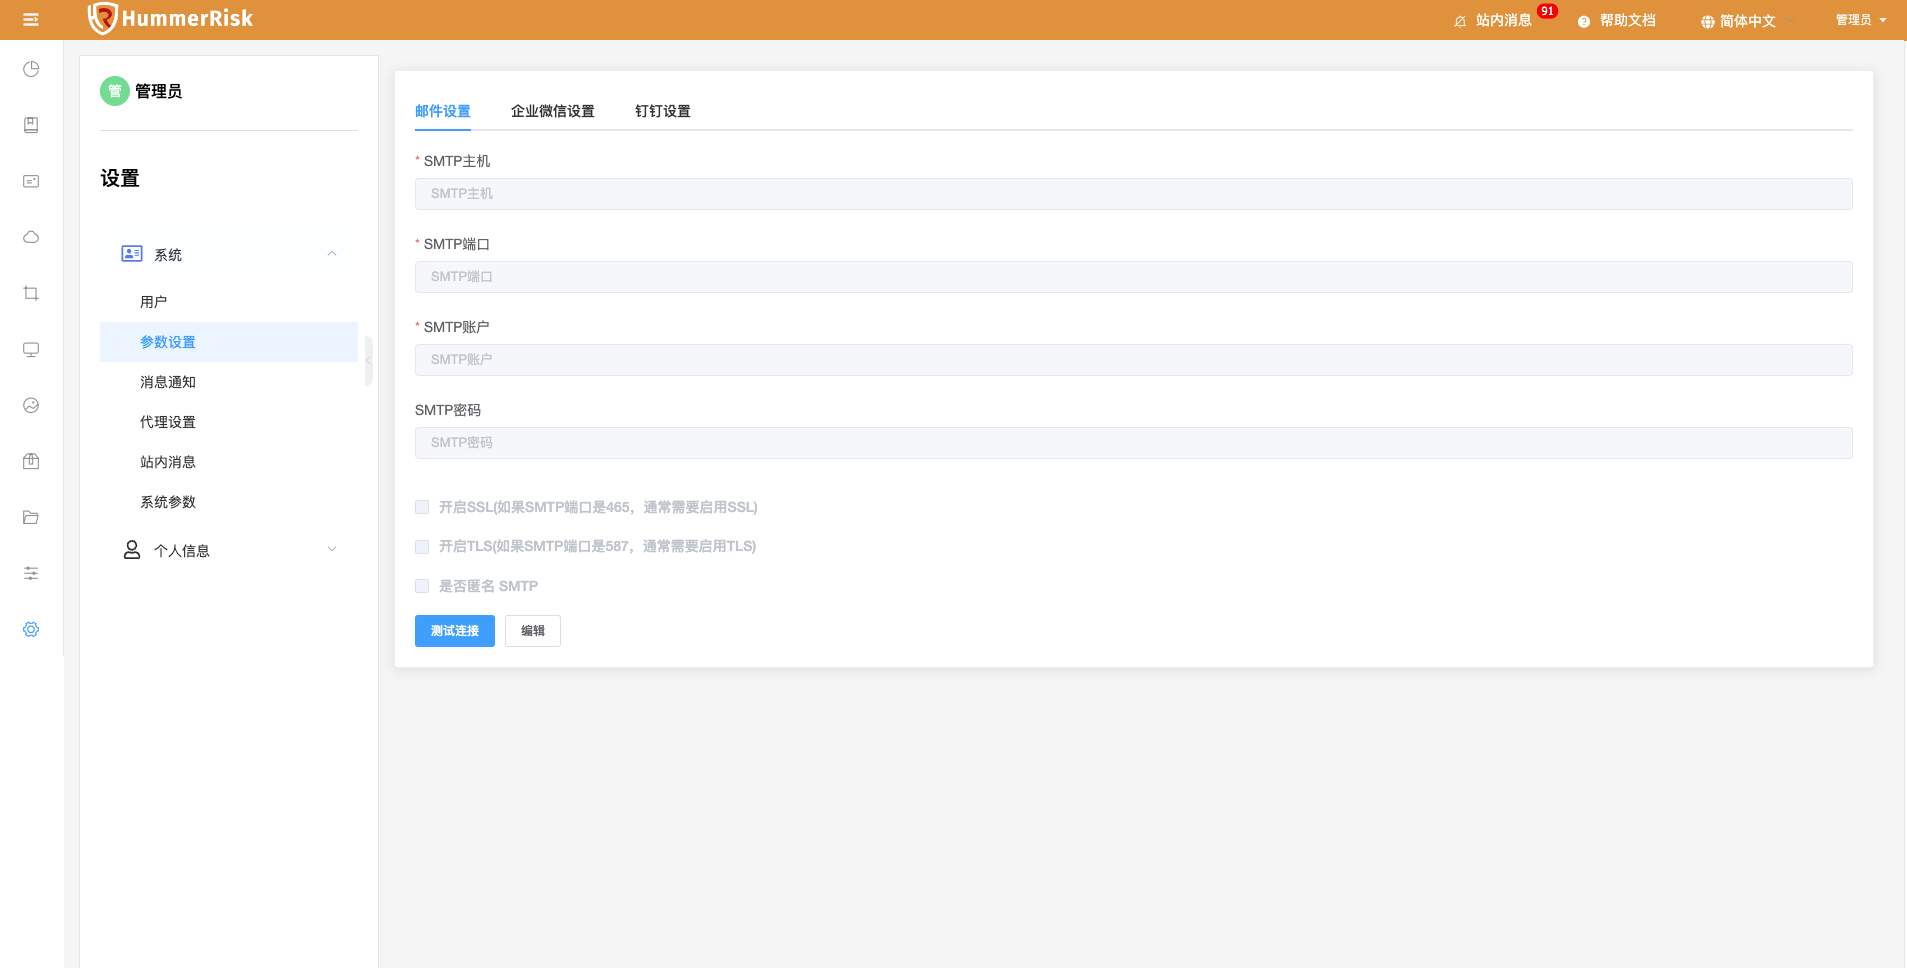
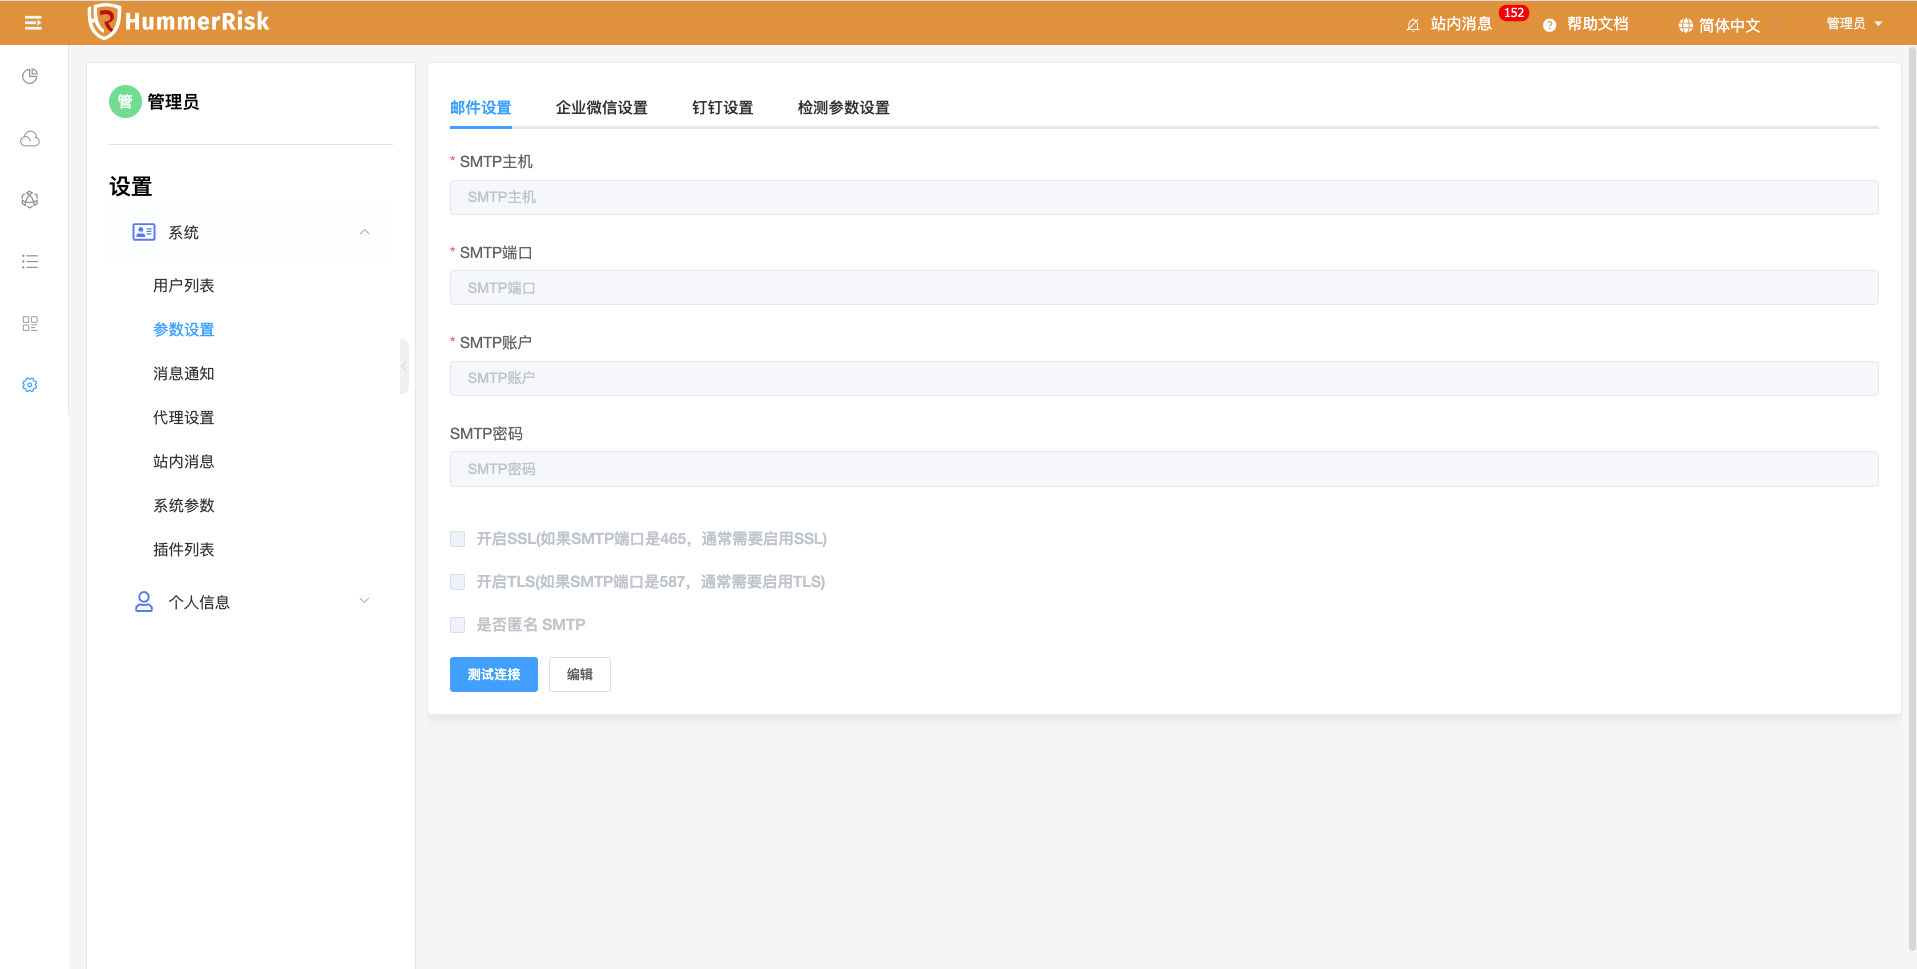
refactor(setting): 系统设置

diff --git a/docs/user/settings.md b/docs/user/settings.md
@@ -1,72 +1,87 @@
-## 系统
+## 1. 系统设置
 
-### 用户
+### 用户管理
 
-> 用户列表页面提供了对系统用户的创建、关闭、删除、编辑、查找、密码修改等操作。
+!!! info "用户管理"
+    用户列表页面提供了对系统用户的创建、关闭、删除、编辑、查找、密码修改等操作。
 
 ![用户](../img/user/user.png)
 
 ### 参数设置
 
-> 通过邮件设置配置 SMTP 主机、SMTP 端口、SMTP 账户、SMTP 密码等信息。
+!!! abstract "邮件设置"
+    通过邮件设置配置 SMTP 主机、SMTP 端口、SMTP 账户、SMTP 密码等信息。
 
-> 通过企业微信设置配置 cropid、agentid、secret、测试用户等信息。
+!!! abstract "企业微信设置"
+    通过企业微信设置配置 cropid、agentid、secret、测试用户等信息。
 
-> 通过钉钉设置配置 AppKey、AgentId、AppSecret、测试用户等信息。
+!!! abstract "钉钉设置"
+    通过钉钉设置配置 AppKey、AgentId、AppSecret、测试用户等信息。
+
+!!! abstract "检测参数设置"
+    通过检测参数设置， 配置云原生安全检测的参数，例如是否离线检测、检测安全项、风险等级等信息。
 
 ![参数设置](../img/user/param.png)
 
 ### 消息通知
 
-> 通过消息通知，配置安全合规规则检测资源的通知事件、接收人、接收类型等信息。
+!!! abstract "消息通知"
+    通过消息通知，配置安全合规规则检测资源的通知事件、接收人、接收类型等信息。
 
 ![消息通知](../img/user/notice.png)
 
-> 接收到的邮件通知。
+接收到的邮件通知。
 
 ![消息通知](../img/user/email.png)
 
 ### 代理设置
 
-> 通过代理设置，配置 Proxy 类型、Proxy IP、Proxy 端口、Proxy 用户名、Proxy 密码等信息。
+!!! abstract "代理设置"
+    通过代理设置，配置 Proxy 类型、Proxy IP、Proxy 端口、Proxy 用户名、Proxy 密码等信息。
 
 ![代理设置](../img/user/proxy.png)
 
 ### 站内消息
 
-> 右上角显示未读消息，每次有新的检测结果都会添加到站内消息的队列中。
+!!! abstract "站内消息"
+    右上角显示未读消息，每次有新的检测结果都会添加到站内消息的队列中。
 
 ![站内消息](../img/user/msg.png)
 
 ### 系统参数
 
-> 可以查看部署 HummerRisk 宿主机的系统参数，并且手动更新。
+!!! abstract "系统参数"
+    可以查看部署 HummerRisk 宿主机的系统参数，并且手动更新。
 
 ![系统参数](../img/user/sys.png)
 
 ### 插件列表
 
-> 插件列表，展示云插件与云原生插件信息。
+!!! abstract "插件列表"
+    插件列表，展示云插件与云原生插件信息。
 
 ![插件列表](../img/user/plugin.png)
 
-## 个人信息
+## 2. 个人信息
 
 ### 个人设置
 
-> 个人设置页面提供了对当前系统用户的编辑、密码修改等操作。
+!!! tip "个人设置"
+    个人设置页面提供了对当前系统用户的编辑、密码修改等操作。
 
 ![个人设置](../img/user/personal.png)
 
 ### API Keys
 
-> API Keys 页面提供了对 Access Key 与 Secret Key 的创建、关闭、删除、复制等操作。
+!!! tip "API Keys"
+    API Keys 页面提供了对 Access Key 与 Secret Key 的创建、关闭、删除、复制等操作。
 
 ![API Keys](../img/user/keys.png)
 
 ### API 文档
 
-> 点击右上角展开的 API 文档按钮进入 Restful APIs 文档页面，该功能提供了对 API 接口的查看、复制、调试等操作。
+!!! tip "API 文档"
+    点击右上角展开的 API 文档按钮进入 Restful APIs 文档页面，该功能提供了对 API 接口的查看、复制、调试等操作。
 
 ![API](../img/user/api.png)
 

diff --git a/docs/user/dashboard.md b/docs/user/dashboard.md
@@ -1,4 +1,4 @@
-!!! pied-piper "首页"
+!!! info "首页"
     首页概况，展示了检测结果的核心信息。首页分为面板、总览、分析、活动记录等页面，默认显示概览页面。
 
 ### 面板
